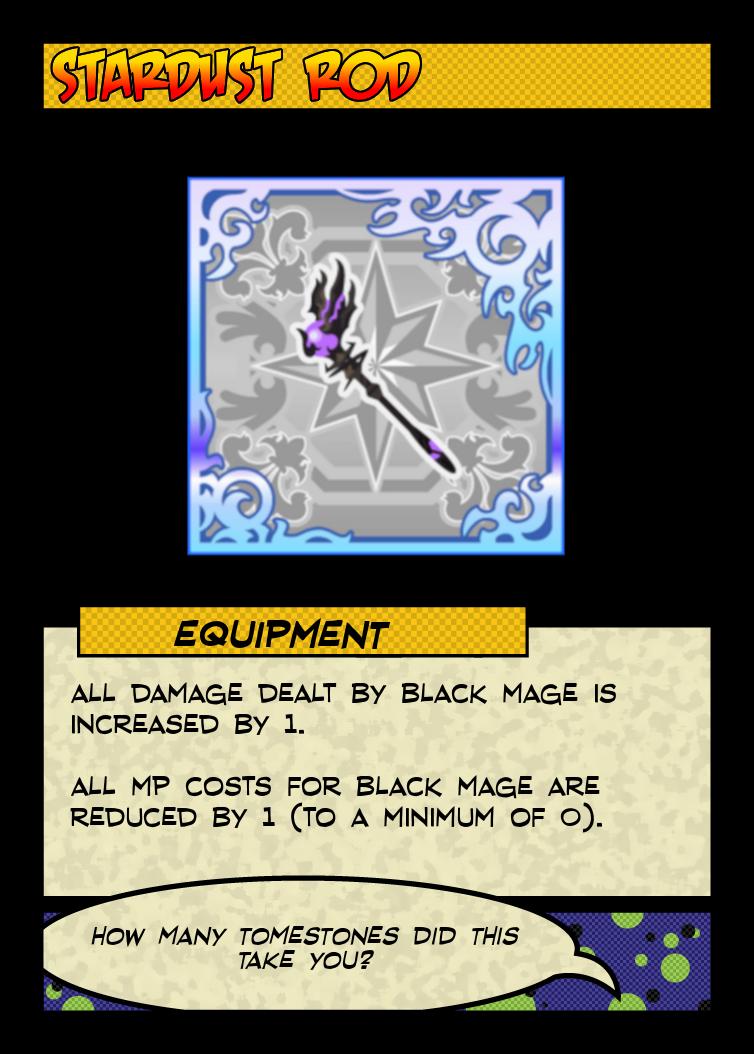
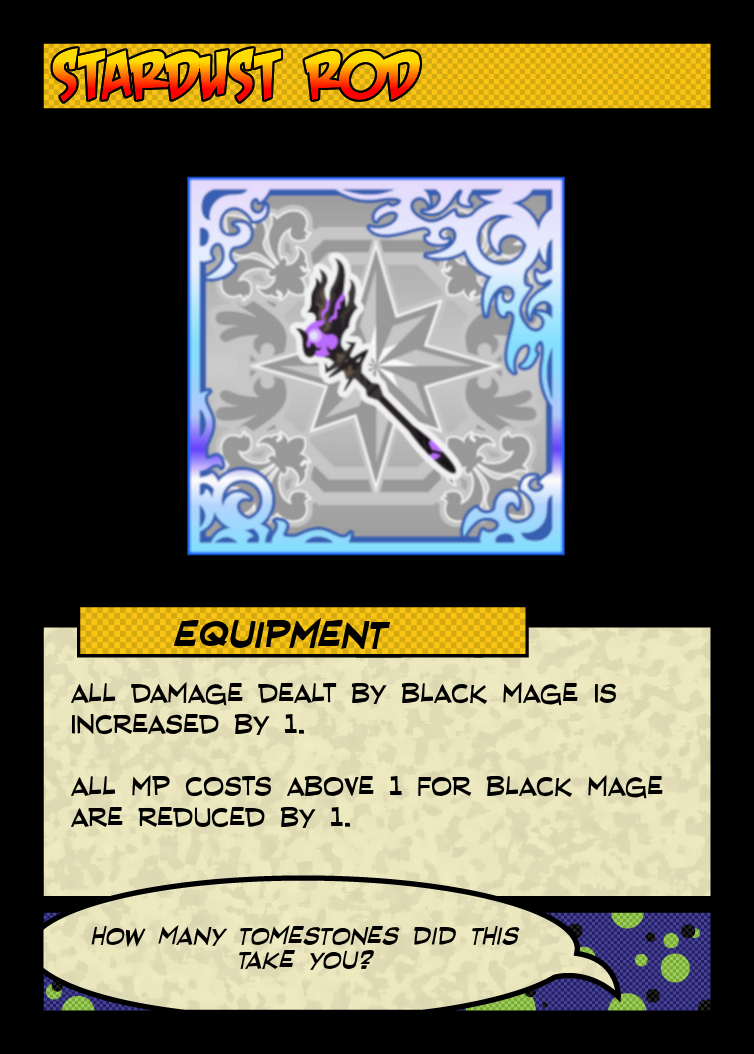
Black Mage Update 1
- Added Black Mage's Rules Card.
- Added Black Mage's Basic Spell Cards; Fire, Blizzard, and Thunder. These don't go into your Hero Deck.
- Added a Readme to Black Mage with its version changelog.

Changed region(s): [[0.0915, 0.7287, 0.8846, 0.7894]]

diff --git a/Black Mage/README.md b/Black Mage/README.md
@@ -1,0 +1,21 @@
+##### Black Mage
+*Version 2*
+The **Black Mage** is a low Health DPS unit with access to various ways of dealing with enemies and their cards through the use of Magic.
+ - They have an MP resource that goes from 0-10 and have Spells that will require some amount of MP to be able to play them. MP is only spent to initially play the card, not to maintain it.
+ - They have 3 Basic Spells with variable MP costs that can be played whenever you're able to play a Spell. Once played, they are set outside of play again instead of put into your Trash. These cards are **Fire**, **Blizzard**, and **Thunder**.
+ - The Black Mage has a few Items that are useful for both themself and other targets. For example, Megalixir can be used to fully fill resources that have a capped minimum and maximum, similar to the Black Mage's MP, on top of healing HP.
+
+### Version 2
+ - *Ultima* and *Ultima Materia* heavily reworked; *Ultima Materia* now searches for *Ultima* from your Deck or Trash, and *Ultima* no longer needs to be the only spell you cast for two turns.
+ - *Aspect Mastery* numerals nerfed from 2 to 1 and its Fire Damage buff now increases the Basic Spell Fire's costs by 1.
+ - *Dream Rod* nerfed to prevent MP Costs from hitting 0.
+ - *Lucid Dreaming* on the Hero Card reworked; You now choose to restore 3 MP or draw a card.
+ - *Swiftcast* numerals nerfed by 1 (*Discard 2, Play 3 -> Discard 1, Play 2*). *Swiftcast* is now a Spell.
+ - *Bio* MP Cost reduced from 3 to 2.
+ - *Dispel* MP Cost reduced from 5 to 4.
+ - *Doom* reworked; Only works on non-Character targets, counter requirement lowered from 5 to 3, and sets that target's HP to 0 once it's reached.\
+ - *Drain* buffed; Heals for the damage dealt instead of a fixed 3 HP.
+ - *Level 5 Death* buffed; No longer destroys, instead setting target's HP to 0.
+
+### Version 1
+Initial Release!
